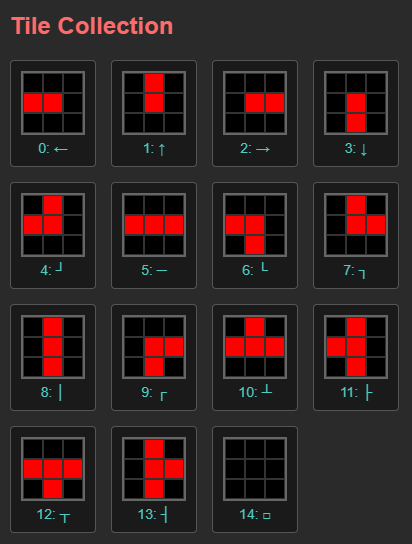
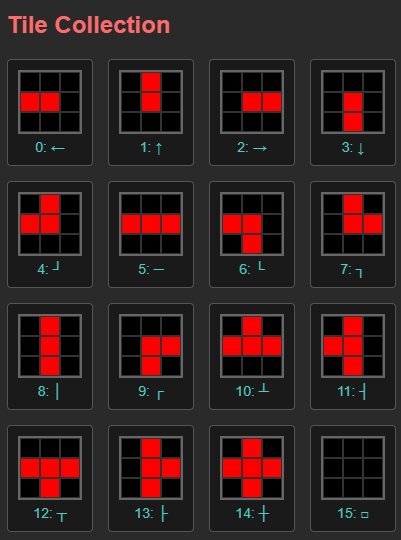
update draft

diff --git a/_blog_posts/2025-06-22-nurikabe-map-gen-with-wfc.md b/_blog_posts/2025-06-22-nurikabe-map-gen-with-wfc.md
@@ -92,13 +92,13 @@ If we can effectively express these two conditions with WFC, we can significantl
 
 For map generation, we commonly used Simple-Tiled WFC. Unlike the more complex Overlapping WFC, Simple-Tiled WFC stores each tile and its connection information, then uses this to generate outputs. In the figure below, Simple-Tiled WFC defines 7 types of tiles (a), uses the connection relationships where roads meet non-roads (b), and generates the result (c).
 
-![Example of Simple-Tiled WFC output generation. Source: https://ieeexplore.ieee.org/abstract/document/10443044/, Tileset: kenney](/images/nmg07.png)
+![Example of Simple-Tiled WFC output generation. Source: [https://ieeexplore.ieee.org/abstract/document/10443044/](https://ieeexplore.ieee.org/abstract/document/10443044/), Tileset: kenney](/images/nmg07.png)
 
 Now let's apply this model to creating wall patterns for Logic Islands. First, we need to define tiles. The basic tiles we'll use are these 15 types:
 
 ![15 types of tiles to use](/images/nmg08.png)
 
-I defined the tiles this way because I used a similar method when creating Flow Free game maps, and it was very effective. For those interested in more details, please refer to [this paper](https://www.researchgate.net/publication/378377175_Puzzle-Level_Generation_with_Simple-tiled_and_Graph-based_Wave_Function_Collapse_Algorithms), and also check out [this game](https://sublevelgames.github.io/dot-king/) and [this game](https://sublevelgames.github.io/dot-and-dot/).
+I defined the tiles this way because I used a similar method when creating [Flow Free](https://play.google.com/store/apps/details?id=com.bigduckgames.flow) game maps, and it was very effective. For those interested in more details, please refer to [this paper](https://www.researchgate.net/publication/378377175_Puzzle-Level_Generation_with_Simple-tiled_and_Graph-based_Wave_Function_Collapse_Algorithms), and also check out [this game](https://sublevelgames.github.io/dot-king/) and [this game](https://sublevelgames.github.io/dot-and-dot/).
 
 To briefly discuss Flow Free map generation, since all given node pairs must be connected and all given surfaces must be filled, we actively used constraints in WFC. After filling the entire game map, we completed the Flow Free map by giving each line a different color.
 
@@ -109,6 +109,7 @@ Now returning to Logic Islands, let me explain the tiles used here.
 Tiles 0 through 3 are terminal nodes. They connect in only one direction, with the other three directions being empty spaces. We can represent this in data as follows:
 
 ```javascript
+// left, up, right, down
 const tiles = {
  0: [0, null, null, null],
  1: [null, 0, null, null],
@@ -116,6 +117,44 @@ const tiles = {
  3: [null, null, null, 0]
 };
 ```
+
+Tile definitions consist of 4 values per tile. Each position represents connections from the current tile in the left, up, right, and down directions. 0 indicates a connection exists and represents the first color. null means no connection.
+
+Tiles 4 through 9 are 6 L-shaped tiles that connect in 2 directions. These can be represented in code as follows:
+
+```javascript
+// left, up, right, down
+const tiles = {
+ ...,
+ 4: [0, 0, null, null],
+ 5: [0, null, 0, null],
+ 6: [0, null, null, 0],
+ 7: [null, 0, 0, null],
+ 8: [null, 0, null, 0],
+ 9: [null, null, 0, 0]
+};
+```
+
+Tiles 10 through 13 are 4 T-shaped tiles that connect in 3 directions. Tile 14 is cross-shaped, connecting in all 4 directions. Tile 15 is empty space, which is essential for defining data and specifying constraints.
+
+```javascript
+// left, up, right, down
+const tiles = {
+  ...,
+  10: [0, 0, 0, null],
+  11: [0, 0, null, 0],
+  12: [0, null, 0, 0],
+  13: [null, 0, 0, 0],
+  14: [0, 0, 0, 0],
+  15: [null, null, null, null]
+};
+```
+
+Now that we've finished defining tiles, let's look at connection relationships. For connections, it seems we should connect tiles that have connections with each other, and tiles without connections with each other. Following this logic, Tile 0 would meet these tiles:
+
+![Tile 0's Left/Up/Right/Down connection relationships](/images/nmg10.png)
+
+
 
 
 
